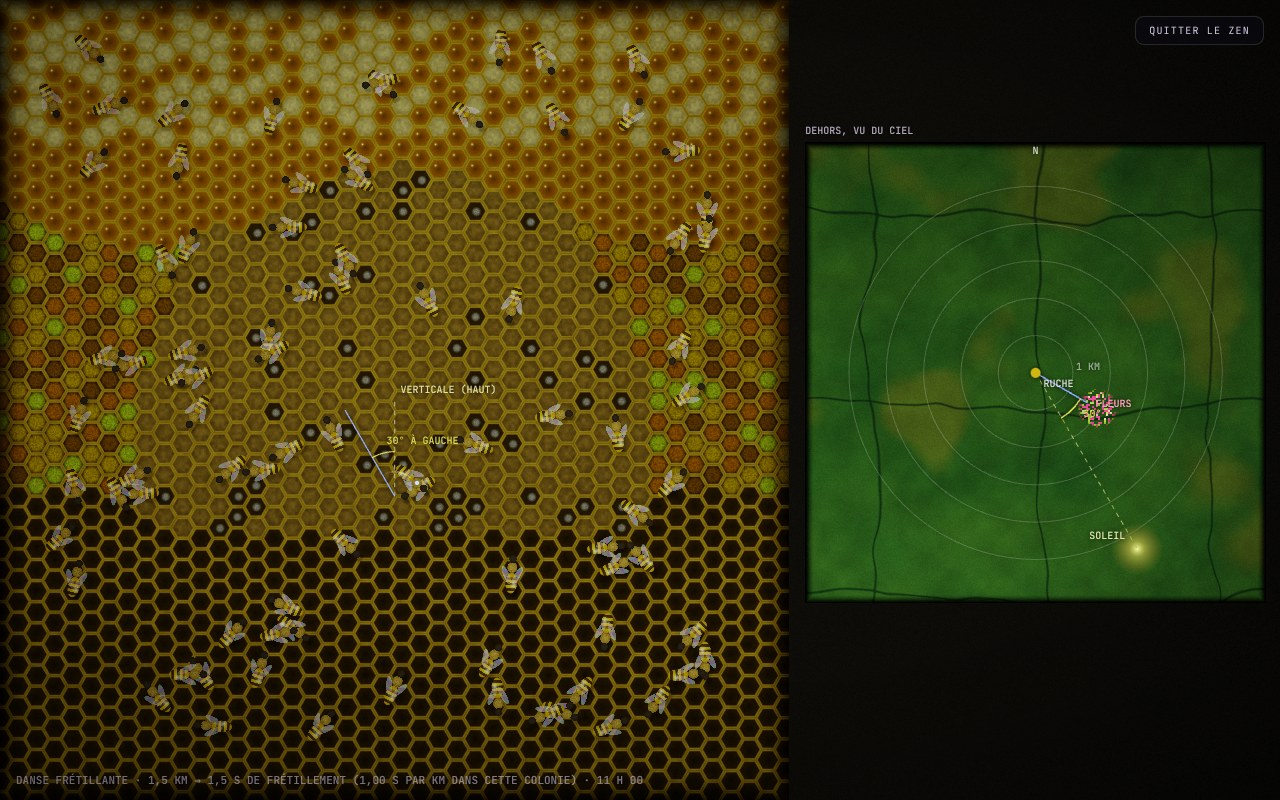
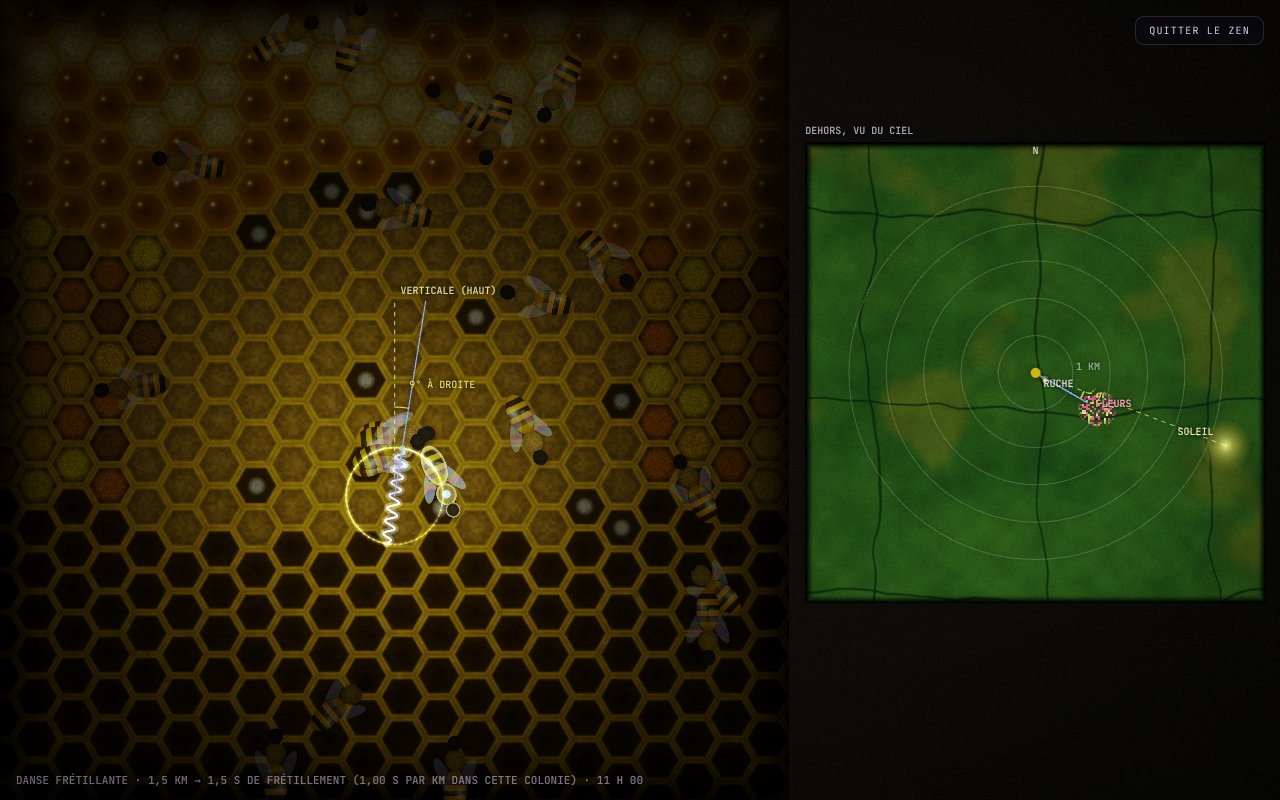
Abeilles : la danseuse en lumière, son huit et son frétillement ; vrai azimut du soleil
Demande du CEO : zoom ×2 sur la piste de danse, abeilles deux fois moins
nombreuses à l'écran, lumière qui suit la danseuse (liseré clair), les
autres estompées ; trace du huit en fil d'or et course frétillante en
zigzag dessiné. Relecture de Kurt : azimut réel du soleil (48° N, 21 juin,
midi solaire vers 13 h 50). Rayon et carte rendus une fois dans une
texture (coût par image divisé). Journal mis à jour (Lave, Abeilles,
Lucioles : Pteroptyx à sourcer, mesure au banc).

Claude-Session: https://claude.ai/code/session_01MS9d5JmMjbNw1P1jiRQA2y

diff --git a/app/js/machines/s-abeilles.js b/app/js/machines/s-abeilles.js
@@ -24,7 +24,7 @@
       { color: '#7fb2ff', name: 'Apis mellifera', role: 'la danseuse · marquée à la peinture', desc: 'Une butineuse de retour, marquée d’un point de peinture sur le thorax, comme le faisait Karl von Frisch pour suivre chaque abeille. Elle danse en huit : une course frétillante, puis un demi-tour, à gauche puis à droite.' },
       { color: '#ffd27a', name: 'Apis mellifera', role: 'les suiveuses, puis les recrues', desc: 'Elles suivent la danseuse au contact, antennes contre son corps : la ruche est sombre, elles sentent la danse plus qu’elles ne la voient. Elles sentent aussi l’odeur du nectar rapporté. Après quelques tours, elles partent.' },
       { color: '#e8a83c', name: 'Le rayon', role: 'cire · miel, pain d’abeille, couvain', desc: 'Des cellules hexagonales de cire : du miel en haut, du pollen (le « pain d’abeille ») autour, le couvain au centre. La danse a lieu près de l’entrée, sur la « piste de danse ».' },
-      { color: '#ffe080', name: 'Le soleil', role: 'la référence de la danse', desc: 'Dehors, l’angle se mesure par rapport au soleil ; dans la ruche, par rapport à la verticale. Le soleil tourne d’environ 15° par heure : la danse tourne avec lui.' },
+      { color: '#ffe080', name: 'Le soleil', role: 'la référence de la danse', desc: 'Dehors, l’angle se mesure par rapport au soleil ; dans la ruche, par rapport à la verticale. Le soleil tourne dans le ciel (lentement le matin et le soir, vite vers midi) : la danse tourne avec lui.' },
     ],
     about: [
       'Karl von Frisch a décodé la danse des abeilles à partir de 1945, en marquant les abeilles et en déplaçant des sources de sucre. Il a reçu le prix Nobel en 1973, avec Konrad Lorenz et Nikolaas Tinbergen.',
@@ -53,12 +53,16 @@
         return { comb: { x: v.x0, y: y0, w, h: h - mh - 24 }, map: { x: v.x0 + (w - mw) / 2, y: H - mh - 12, w: mw, h: mh } };
       }
       let G0 = geo();
-      const kS = clamp(Math.min(W, H) / 800, 0.7, 1.3), BEE = 38 * kS;        // longueur d'une abeille (px) : environ 2,2 cellules
+      // on regarde de près la piste de danse (zoom ×2) : des abeilles plus grandes, moins nombreuses à l'écran
+      const ZB = 2, kS = clamp(Math.min(W, H) / 800, 0.7, 1.3), BEE = 38 * kS * ZB;   // longueur d'une abeille (px) : environ 2,2 cellules
       const CELL = BEE / 3.6;                                                   // rayon d'une cellule hexagonale (px)
 
       /* ───────── le soleil et la source ───────── */
-      // azimut du soleil (rad, depuis le nord, sens horaire) : environ 15° par heure, plein sud vers 13 h (heure d'été)
-      const sunAz = () => ((180 + (cfg.heure - 13) * 15) * Math.PI) / 180;
+      // azimut du soleil (rad, depuis le nord, sens horaire), calculé pour 48° de latitude nord le 21 juin (déclinaison 23,44°),
+      // midi solaire vers 13 h 50 (heure d'été, en France). L'angle horaire tourne de 15° par heure ; l'azimut, lui, avance
+      // lentement le matin et le soir, et vite autour de midi.
+      const LAT = (48 * Math.PI) / 180, DEC = (23.44 * Math.PI) / 180;
+      const sunAz = () => { const Hh = ((cfg.heure - 13.83) * 15 * Math.PI) / 180; return Math.PI + Math.atan2(Math.sin(Hh), Math.cos(Hh) * Math.sin(LAT) - Math.tan(DEC) * Math.cos(LAT)); };
       const foodAz = () => (cfg.cap * Math.PI) / 180;
       const alpha = () => wrap(foodAz() - sunAz());                             // angle de la source par rapport au soleil (horaire)
       const ronde = () => cfg.dist < 0.09;
@@ -72,7 +76,7 @@
         B.push(b);
         return b;
       }
-      const N = Math.round((mobile ? 50 : 80) * clamp((G0.comb.w * G0.comb.h) / 600000, 0.5, 1.4));
+      const N = Math.round(((mobile ? 50 : 80) * clamp((G0.comb.w * G0.comb.h) / 600000, 0.5, 1.4)) / (ZB * ZB));
       for (let i = 0; i < N; i++) bee('ouvriere');
       const dancer = bee('danseuse');
       // la danse : un huit autour de son centre, sur la « piste de danse » près de l'entrée (en bas du rayon)
@@ -174,7 +178,7 @@
         const K = FG.GLKit(cw, ch), gl = K.gl, cab = FG.cabine(K);
         // le rayon : hexagones de cire ; miel en haut, pain d'abeille, couvain operculé ou ouvert, cellules vides sur la piste de danse ; et, à part, la carte du dehors
         const pFond = K.program(FG.HEAD + `
-uniform vec2 uRes; uniform vec4 uComb, uMap; uniform float uCell, uT, uSun, uFood, uDist;
+uniform vec2 uRes; uniform vec4 uComb, uMap; uniform float uCell, uT, uSun, uFood, uDist; uniform vec3 uSpot;
 out vec4 o;
 vec2 hexc(vec2 p, float R){
   vec2 s = vec2(1.7320508, 1.) * R * 2.;
@@ -217,6 +221,9 @@ void main(){
     col = mix(c, waxc, wall) * lum;
     col += vec3(.4, .25, .08) * .08 * smoothstep(0., -uCell * .1, d) * smoothstep(-uCell * .25, -uCell * .1, d);    // la cire translucide s'éclaire sur l'arête
     col *= smoothstep(0., uCell * 4., min(min(px.x - uComb.x, uComb.x + uComb.z - px.x), min(px.y - uComb.y, uComb.y + uComb.w - px.y)) + uCell);
+    // la piste de danse dans la lumière, le reste du rayon dans la pénombre de la ruche
+    float sp = exp(-dot(px - uSpot.xy, px - uSpot.xy) / (uSpot.z * uSpot.z));
+    col *= (.16 + .84 * sp) * mix(vec3(1.), vec3(1.15, 1.05, .9), sp) * 1.15;
   }
   // la carte du dehors : une prairie vue du ciel, le soleil, la source
   vec2 m = (px - uMap.xy) / uMap.zw;
@@ -246,10 +253,12 @@ void main(){
         const VS = `#version 300 es
 precision highp float;
 layout(location = 0) in vec4 aA; layout(location = 1) in vec4 aB; layout(location = 2) in vec2 aQ;
-uniform vec2 uRes; uniform float uOmb;
-out vec2 vQ; out vec4 vB;
+uniform vec2 uRes; uniform float uOmb; uniform vec3 uSpot; uniform vec2 uDan;
+out vec2 vQ; out vec4 vB; out float vS;
 void main(){
   float L = aA.z, a = aA.w;
+  float sp = exp(-dot(aA.xy - uDan, aA.xy - uDan) / (uSpot.z * uSpot.z * .36));
+  vS = aB.y > .5 ? 1.25 : .16 + .84 * sp;
   vec2 q = aQ * vec2(1., .62);
   vec2 d = vec2(cos(a), sin(a)), n = vec2(-d.y, d.x);
   vec2 pos = aA.xy + (d * q.x + n * q.y) * L * .62 + uOmb * vec2(2.5, 4.);
@@ -257,7 +266,7 @@ void main(){
   gl_Position = vec4(pos.x / uRes.x * 2. - 1., 1. - pos.y / uRes.y * 2., 0., 1.);
 }`;
         const pBee = K.program(FG.HEAD.replace('in vec2 vUv;', '') + `
-in vec2 vQ; in vec4 vB; uniform float uOmb, uT; out vec4 o;
+in vec2 vQ; in vec4 vB; in float vS; uniform float uOmb, uT; out vec4 o;
 float el(vec2 p, vec2 c, vec2 r){ return length((p - c) / r) - 1.; }
 void main(){
   vec2 p = vQ;                          // x : de la queue (-1) à la tête (+1)
@@ -267,12 +276,12 @@ void main(){
   vec2 pw = vec2(p.x - .18, abs(p.y) - .2); pw = mat2(.9, -.44, .44, .9) * pw;
   float dw = el(pw, vec2(-.12, .1), vec2(.42 + .1 * fly, .13));
   float body = min(dh, min(dt, da));
-  if (uOmb > .5){ float s = smoothstep(.35, -.4, body); o = vec4(0., 0., 0., s * .35); return; }
+  if (uOmb > .5){ float s = smoothstep(.35, -.4, body); o = vec4(0., 0., 0., s * .35 * min(vS, 1.)); return; }
   vec4 c = vec4(0.);
   // ailes : à peine visibles, irisées sur le bord ; floues quand elle vole
   float wa = smoothstep(.02, -.05, dw) * (.22 - .1 * fly);
   vec3 wc = vec3(.35, .38, .42) + .08 * vec3(sin(p.x * 20.), sin(p.x * 20. + 2.), sin(p.x * 20. + 4.));
-  if (body > 0.){ o = vec4(wc * wa, wa); return; }
+  if (body > 0.){ o = vec4(wc * wa * vS, wa); return; }
   vec3 col;
   if (da <= 0. && dt > 0. && dh > 0.){
     float band = smoothstep(.45, .55, fract((p.x + .76) * 4.2));
@@ -287,7 +296,8 @@ void main(){
   } else col = vec3(.02, .014, .01) * (.6 + .6 * sqrt(clamp(-dh, 0., 1.)));
   col = mix(col, wc, wa * .6);
   float edge = smoothstep(0., -.08, body);
-  o = vec4(col * edge, edge);
+  if (vB.y > .5) col += vec3(1., .82, .5) * .22 * smoothstep(-.3, -.02, body);   // la danseuse : un liseré de lumière
+  o = vec4(col * edge * vS, edge);
 }`, VS);
         const qBuf = gl.createBuffer(); gl.bindBuffer(gl.ARRAY_BUFFER, qBuf); gl.bufferData(gl.ARRAY_BUFFER, new Float32Array([-1, -1, 1, -1, -1, 1, 1, 1]), gl.STATIC_DRAW);
         const MAX = 512, data = new Float32Array(MAX * 8), ib = gl.createBuffer();
@@ -297,13 +307,23 @@ void main(){
         for (let l = 0; l < 2; l++) { gl.enableVertexAttribArray(l); gl.vertexAttribPointer(l, 4, gl.FLOAT, false, 32, l * 16); gl.vertexAttribDivisor(l, 1); }
         gl.bindBuffer(gl.ARRAY_BUFFER, qBuf); gl.enableVertexAttribArray(2); gl.vertexAttribPointer(2, 2, gl.FLOAT, false, 0, 0); gl.vertexAttribDivisor(2, 0);
         gl.bindVertexArray(null);
+        const bgT = K.target(cw, ch, 'f16', gl.NEAREST);
+        const pCopy = K.program(FG.HEAD + `
+uniform sampler2D uB; out vec4 o;
+void main(){ o = texture(uB, vUv); }`);
+        let bgKey = '';
         const Gx = { lost: false };
         K.canvas.addEventListener('webglcontextlost', (e) => { e.preventDefault(); Gx.lost = true; });
         Gx.draw = function () {
           const g = geo();
-          pFond.use().f('uRes', cw, ch).f('uComb', g.comb.x * cs, g.comb.y * cs, g.comb.w * cs, g.comb.h * cs).f('uMap', g.map.x * cs, g.map.y * cs, g.map.w * cs, g.map.h * cs)
-            .f('uCell', CELL * cs).f('uT', VT).f('uSun', sunAz()).f('uFood', foodAz()).f('uDist', cfg.dist);
-          K.run(pFond, cab.scene);
+          const R = BEE * 2.8 * cs, key = [g.comb.x, g.comb.y, g.comb.w, g.comb.h, g.map.x, g.map.y, g.map.w, sunAz().toFixed(2), cfg.cap, cfg.dist, Math.round(D.cx), Math.round(D.cy)].join(',');
+          if (key !== bgKey) {
+            bgKey = key;
+            pFond.use().f('uRes', cw, ch).f('uComb', g.comb.x * cs, g.comb.y * cs, g.comb.w * cs, g.comb.h * cs).f('uMap', g.map.x * cs, g.map.y * cs, g.map.w * cs, g.map.h * cs)
+              .f('uCell', CELL * cs).f('uT', VT).f('uSun', sunAz()).f('uFood', foodAz()).f('uDist', cfg.dist).f('uSpot', D.cx * cs, D.cy * cs, R);
+            K.run(pFond, bgT);
+          }
+          pCopy.use().t('uB', bgT); K.run(pCopy, cab.scene);
           let n = 0;
           for (const b of B) {
             if (b.out || n >= MAX) continue;
@@ -315,8 +335,8 @@ void main(){
           gl.bindFramebuffer(gl.FRAMEBUFFER, cab.scene.fb); gl.viewport(0, 0, cab.scene.w, cab.scene.h);
           gl.enable(gl.BLEND); gl.blendFunc(gl.ONE, gl.ONE_MINUS_SRC_ALPHA);
           gl.bindVertexArray(vao);
-          pBee.use().f('uRes', cw, ch).f('uOmb', 1).f('uT', VT); gl.drawArraysInstanced(gl.TRIANGLE_STRIP, 0, 4, n);   // ombres portées
-          pBee.use().f('uRes', cw, ch).f('uOmb', 0).f('uT', VT); gl.drawArraysInstanced(gl.TRIANGLE_STRIP, 0, 4, n);
+          pBee.use().f('uRes', cw, ch).f('uOmb', 1).f('uT', VT).f('uSpot', D.cx * cs, D.cy * cs, R).f('uDan', dancer.x * cs, dancer.y * cs); gl.drawArraysInstanced(gl.TRIANGLE_STRIP, 0, 4, n);   // ombres portées
+          pBee.use().f('uRes', cw, ch).f('uOmb', 0).f('uT', VT).f('uSpot', D.cx * cs, D.cy * cs, R).f('uDan', dancer.x * cs, dancer.y * cs); gl.drawArraysInstanced(gl.TRIANGLE_STRIP, 0, 4, n);
           gl.bindVertexArray(null); gl.disable(gl.BLEND);
           cab.finish({ expo: 1.6, bloom: 0.3, thr: 1.0, knee: 0.5, radius: 0.7, vig: 0.5, grain: 0.03, grainBlack: 0.3, sat: 1.0 });
           ctx.save(); ctx.globalCompositeOperation = 'copy'; ctx.drawImage(K.canvas, 0, 0, W, H); ctx.restore();
@@ -355,12 +375,30 @@ void main(){
         ctx.save();
         // la trace de la danse : la course frétillante en trait vif, le retour en pointillé
         if (cfg.trace && trace.length > 2) {
-          ctx.lineWidth = 2; ctx.lineCap = 'round';
-          for (let i = 1; i < trace.length; i++) {
-            const [x0, y0, w0] = trace[i - 1], [x1, y1] = trace[i], a = (i / trace.length) * 0.75;
-            ctx.strokeStyle = w0 ? `rgba(140,190,255,${a.toFixed(3)})` : `rgba(255,230,180,${(a * 0.45).toFixed(3)})`;
-            ctx.beginPath(); ctx.moveTo(x0, y0); ctx.lineTo(x1, y1); ctx.stroke();
+          ctx.lineCap = 'round'; ctx.lineJoin = 'round'; ctx.globalCompositeOperation = 'lighter';
+          const n = trace.length;
+          // les retours (demi-cercles) : un fil d'or pâle, plus vif quand il est récent
+          for (let i = 1; i < n; i++) {
+            const [x0, y0, w0] = trace[i - 1], [x1, y1, w1] = trace[i], a = i / n;
+            if (w0 && w1) continue;
+            for (const [lw, al] of [[6, 0.07], [2, 0.42]]) { ctx.lineWidth = lw; ctx.strokeStyle = `rgba(255,214,140,${(al * a).toFixed(3)})`; ctx.beginPath(); ctx.moveTo(x0, y0); ctx.lineTo(x1, y1); ctx.stroke(); }
           }
+          // les courses frétillantes : du premier au dernier point de chaque course, un zigzag dessiné finement (le frétillement)
+          for (let i = 0; i < n; i++) {
+            if (!trace[i][2]) continue;
+            let j = i; while (j + 1 < n && trace[j + 1][2]) j++;
+            const [xa, ya] = trace[i], [xb, yb] = trace[j], len = Math.hypot(xb - xa, yb - ya), a = (j + 1) / n;
+            if (len > 4) {
+              const ux = (xb - xa) / len, uy = (yb - ya) / len, lam = BEE * 0.17, amp = BEE * 0.075;
+              for (const [lw, al] of [[7, 0.12], [2.2, 0.9]]) {
+                ctx.lineWidth = lw; ctx.strokeStyle = `rgba(150,200,255,${(al * a).toFixed(3)})`; ctx.beginPath();
+                for (let s = 0; s <= len; s += 1.5) { const o = Math.sin((s / lam) * TAU) * amp * Math.min(1, s / 6, (len - s) / 6); ctx.lineTo(xa + ux * s - uy * o, ya + uy * s + ux * o); }
+                ctx.stroke();
+              }
+            }
+            i = j;
+          }
+          ctx.globalCompositeOperation = 'source-over';
         }
         ctx.font = '500 10px "JetBrains Mono", monospace'; ctx.shadowColor = 'rgba(0,0,0,.95)'; ctx.shadowBlur = 5; ctx.textAlign = 'left';
         const al = alpha(), up = -Math.PI / 2;
@@ -430,6 +468,7 @@ void main(){
       }
       if (!keep.cfg.init) { keep.cfg.init = true; setScene(keep.scene); }
 
+      if (window.FASC_DEBUG) window.FASC_DEBUG.abeilles = { cfg, run(n, h) { for (let i = 0; i < n; i++) { VT += h; stepDance(h); stepBees(h); } } };
       return {
         livePaused: true,
         frame(t, dt) {

diff --git a/docs/rendu/RENDU-A.md b/docs/rendu/RENDU-A.md
@@ -14,16 +14,17 @@ Branche `rendu-a`, nuit du 12 au 13/11/2026. La science des machines ne change p
 - **Herbes du premier plan** : dessinées sur le GPU (une bande courbe par lame, antialiasée), elles suivent toujours le vent et le souffle.
 - **Coût** : bruits fixes (Voie lactée, sol, bord des feuilles) calculés une seule fois ; résolution de rendu ×1,25 sur mobile, ×1,5 ailleurs. En rendu logiciel (SwiftShader), environ 11 images/s contre 17 pour l'ancien rendu 2D ; sur une vraie carte graphique, le rendu est très en deçà du budget, et le régulateur de la coquille baisse la résolution si besoin.
 - **Correctif au passage** : la scène et les réglages sont gardés d'une construction à l'autre (objet `keep`). Avant, passer en mode zen ou tourner la tablette ramenait toujours à « Nuit d'été », contre la décision « ne jamais réinitialiser sans demande ».
-- **Couleurs vraies (relecture de Kurt, 13/11)** : chaque espèce émet une bande d'environ 50 nm autour de son pic, convertie par les fonctions CIE 1931 (`FKR.couleur.bande`, repli local identique). Pics retenus, à confirmer : *Photinus* 562-563 nm (Lall et al., 1980), *Photuris* et *Lampyris* 552 nm, *Pteroptyx* 565 nm. Toutes sont jaune-vert : les espèces se reconnaissent à leur rythme. L'interrupteur « Couleurs pour reconnaître les espèces » (éteint par défaut) rend les anciennes fausses couleurs, annoncées comme telles. La légende du panneau montre les vraies.
+- **Couleurs vraies (relecture de Kurt, 13/11)** : chaque espèce émet une bande d'environ 50 nm autour de son pic, convertie par les fonctions CIE 1931 (`FKR.couleur.bande`, repli local identique). Pics retenus, validés par Kurt (13/11) : *Photinus* 562-563 nm (Lall et al., 1980), *Photuris* et *Lampyris* 552 nm ; *Pteroptyx* 565 nm est plausible mais **reste à sourcer**. Toutes sont jaune-vert : les espèces se reconnaissent à leur rythme. L'interrupteur « Couleurs pour reconnaître les espèces » (éteint par défaut) rend les anciennes fausses couleurs, annoncées comme telles. La légende du panneau montre les vraies.
 - **Mode doux (`env.doux`, photosensibilité)** : l'éclairage d'ensemble (champ qui éclaire prairie et couronne) baisse de 82 %, la lueur autour des lucioles de 60 %, le halo de moitié ; les points restent nets. Même chose dans le repli 2D.
 - **Recette qualité** : le trait noir droit sous la haie est retiré ; les étiquettes passent sous la bande réservée du Labo (`env.view.y0`).
+- **Mesure au banc de B** (`tools/avant-apres.mjs`, Labo, 1280 × 800, rendu logiciel) : 8,5 / 10,5 / 9,5 i/s à 3, 15 et 30 s, **sans déclin** (avant : 50,5 / 14,5 / 17, avec déclin).
 
 ## La Lampe à lave (`s-lave.js`)
 
 Toutes les scènes passent par la cabine (`FKGL.cabine`, dans FKR). L'ancien rendu reste pour le mode sans décor (encre sur crème) et si la cabine manque.
 
 - **La lampe** : pièce sombre éclairée par la lampe ; verre cylindrique (le liquide fait loupe : centre grossi, bords serrés), reflets de Fresnel et d'une fenêtre, lumière piégée dans la paroi. Le liquide diffuse la lumière de l'ampoule (intense en bas) ; l'œil s'adapte à sa teinte chaude (balance des blancs partielle). La cire est translucide : les parties minces s'illuminent, le dessous des gouttes s'allume face à l'ampoule, un reflet de fenêtre les arrondit. Socle et chapeau en aluminium brossé, fentes d'aération lumineuses, table laquée où la lampe se reflète. Le verre et le socle sont un peu plus bas qu'avant (`lampBox`) pour laisser voir la table.
-- **Bénard** : palette « inferno » (perceptuellement régulière) avec relief, plaque de cuivre qui rougeoie selon l'écart de température, plaque froide ; colorant en vert fluorescent sur liquide sombre.
+- **Bénard** : palette « inferno » (perceptuellement régulière) avec relief ; colorant en vert fluorescent sur liquide sombre. Relecture de Kurt : la plaque de cuivre ne rougeoie plus (à quelques dizaines de degrés, un métal ne luit pas ; il faut environ 500 °C), elle est couleur cuivre, et la plaque froide est grise ; l'écran dit « fausses couleurs : la température (noir = plus froid, jaune = plus chaud) ».
 - **Le Soleil** : granules bombés sur une grille de Voronoï tordue, couloirs, points brillants, granules qui « explosent » ; facules près du bord, chromosphère. Comme les images d'observatoire, une luminance colorisée par une palette or (l'image défait d'avance la courbe ACES de la cabine). Le texte le dit : le Soleil est blanc, l'or est une convention.
 
 ### Volcans et intérieur de la Terre (demande de Yoann, cadrage de Kurt, brief 93ac705)
@@ -33,6 +34,9 @@ Trois nouvelles scènes, rangées sous les trois premières. Couleurs des roches
 - **La Terre en coupe**, à l'échelle : graine de fer solide (≈ 5 400 °C), noyau externe de fer liquide (4 000 à 5 000 °C, tourbillons ; le texte dit qu'il brasse un million de fois plus vite que le manteau), manteau de roche **solide** (1 000 à 3 500 °C, couche limite chaude au contact du noyau) en convection lente : 7 cellules qui dérivent et un panache de point chaud qui ondule. Lithosphère de 100 km, croûte de 7 km (océans) à 35 km (continents), dorsales où le manteau fond par décompression. Une **loupe ×20** montre la croûte, fine comme une peau de pomme, et l'atmosphère d'une centaine de kilomètres. Horloge : 1 s ≈ 4 Ma par défaut (réglable de 0,5 à 20).
 - **Le point chaud** : la plaque Pacifique avance d'environ 9 cm par an au-dessus d'un panache fixe ; une île naît toutes les 1,1 Ma, grandit, s'éloigne, s'enfonce et s'use ; âges affichés sous chaque île ; bombement du fond marin autour du point chaud ; fusion partielle en haut du panache et fissures jusqu'au volcan actif (chambre magmatique, lave, vapeur). **Relief exagéré ×25 au-dessus du fond marin, à l'échelle en dessous** : c'est écrit à l'écran. Horloge : 1 s ≈ 600 000 ans par défaut.
 - **Sous le volcan**, à l'échelle (barre de 5 km) : chambre magmatique à 5-7 km (bouillie cristalline), cheminée. Basalte fluide (vers 1 150 °C) : fontaines et deux rivières de lave dont la couleur suit la température, avec une croûte qui fige. Magma visqueux et gazeux (vers 900 °C) : bulles qui grossissent dans la cheminée, colonne plinienne en volutes éclairées par en dessous, nuées ardentes de temps en temps, éclairs rares dans le panache (au plus un toutes les 2 s ; atténués avec `env.doux`).
+- **Sous le volcan, refait (demande du CEO, 13/11 ; « le volcan effusif : il dirait c'est moche »)** : chambre en lentille irrégulière où l'on voit la convection (panache chaud au centre au-dessus de la recharge, magma plus froid et plus cristallin contre les parois) et des bulles de gaz qui montent (grossies, c'est écrit) ; cheminée sinueuse dont les bulles grossissent en montant ; un dyke actif (une lame de magma qui fend la roche depuis le toit de la chambre, sans percer) et un vieux dyke figé qui recoupe les couches ; couches naturelles (laves, scories et cendres parallèles aux flancs dans l'édifice ; grès, schistes, calcaires plissés et décalés par une faille sous la plaine ; socle de granite) ; lac de lave dans le cratère ; fontaine de lave d'environ 1 km qui pulse lentement, comme à l'Etna, avec des gouttes en arcs qui rougissent en vol ; coulées qui refroidissent en descendant (jaune vers 1 150 °C, rouge vers 900 °C, puis croûte noire fendue de lueurs), **épaisseur grossie (×4 environ), écrit à l'écran** ; panache de gaz et de vapeur poussé par le vent, éclairé par-dessous ; lueur dans l'air et nuages élevés rougis au-dessus du volcan. En mode visqueux : dôme de lave, fragmentation du magma en haut de la cheminée, nuée ardente au ras du flanc. Le sol est un peu plus haut (55 % de la hauteur) : la chambre ne touche plus le bandeau.
+- **Conventions de couleurs à l'écran (relecture de Kurt)** : coupe de la Terre, « couleurs : la lueur qu'aurait la matière à sa température · personne ne peut voir l'intérieur de la Terre » ; point chaud et volcan, « … la lueur qu'aurait la roche à sa température · personne ne peut voir sous la surface ». Le bandeau passe à la ligne aux « · » sur écran étroit (il était tronqué en 390 px).
+- **Éclairs du panache** : au plus un toutes les 2,2 s, locaux (jamais plein écran), à 35 % avec `env.doux` : bien en dessous de 3 par seconde.
 - **L'analogie** : la note de la coupe le dit. Comme la cire, ce qui est chaud monte ; mais la cire est liquide et fait un tour en minutes, le manteau est solide et fait un tour en 100 millions d'années environ.
 - **Outil OBSERVER** : il nomme la couche ou l'objet touché (graine, noyau externe, manteau, lithosphère ; plaque, panache, volcan actif ; chambre, cheminée, panache de cendres…).
 - **Chemins pour les fiches du Labo** : `scenes/la terre en coupe`, `scenes/le point chaud`, `scenes/sous le volcan` ; `la terre en coupe/vitesse du temps` (0,5 à 20 Ma/s), `la terre en coupe/loupe sur la croute` ; `le point chaud/vitesse du temps` (0,1 à 2 Ma/s) ; `sous le volcan/magma` (`fluide` ou `visqueux`).
@@ -44,11 +48,13 @@ Cadrage de Kurt (REFONTE-PEDAGOGIQUE.md § 2) : von Frisch, prix Nobel 1973 ; su
 - **Dans la ruche**, sur le rayon vertical : cellules hexagonales de cire (miel operculé ou non en haut, pain d'abeille en couronne, couvain au centre, cellules vides de la piste de danse près de l'entrée), lumière douce, vignettage sombre.
 - **La danseuse**, marquée d'un point de peinture bleue sur le thorax comme dans les expériences de von Frisch, danse en huit. Course frétillante : angle avec la verticale = angle des fleurs par rapport au soleil (sens horaire) ; abdomen qui frétille vers 13 battements par seconde ; durée = distance × secondes par km (1 s par défaut, réglable de 0,6 à 1,4 s : « la valeur varie selon les colonies », écrit dans le panneau). Demi-tours alternés à gauche et à droite. Sous 90 m : danse en rond, sans direction.
 - **Les suiveuses** restent au contact derrière elle, puis, après 3 à 6 tours, partent vers l'entrée.
-- **Dehors, vu du ciel** : la ruche, des cercles de 1 km, le soleil (azimut : environ 15° par heure, plein sud vers 13 h, heure d'été), le champ de fleurs, et les recrues qui volent dans la direction indiquée avec une erreur de quelques degrés et 20 % sur la distance (en rond : n'importe quelle direction, près de la ruche). L'angle entre le soleil et les fleurs est tracé dehors et, le même, entre la verticale et la course dans la ruche.
+- **Dehors, vu du ciel** : la ruche, des cercles de 1 km, le soleil (vrai azimut, relecture de Kurt : 48° N, 21 juin, déclinaison 23,44°, midi solaire vers 13 h 50 en heure d'été française ; il avance lentement le matin et le soir, vite vers midi : 54° à 6 h, 97° à 10 h, 180° à 13 h 50, 288° à 20 h), le champ de fleurs, et les recrues qui volent dans la direction indiquée avec une erreur de quelques degrés et 20 % sur la distance (en rond : n'importe quelle direction, près de la ruche). L'angle entre le soleil et les fleurs est tracé dehors et, le même, entre la verticale et la course dans la ruche.
 - **Toute une journée** : le soleil tourne, la danse tourne avec lui (une heure toutes les 8 s).
 - **Rendu** : rayon, carte et abeilles en WebGL2 (abeilles dessinées en GLSL : tête, thorax velu, abdomen rayé avec un reflet sur la chitine, ailes irisées, ombres portées), développé par la cabine ; repli 2D sans WebGL2.
 - **Chemins pour la fiche du Labo** : `scenes/la danse fretillante`, `scenes/la danse en rond`, `scenes/toute une journee` ; `les fleurs/distance` (0,03 à 5 km), `les fleurs/direction depuis la ruche` (0 à 359°, nord = 0), `les fleurs/heure` (6 à 20), `les fleurs/le temps passe` ; `la danse/secondes de fretillement par kilometre` (0,6 à 1,4), `la danse/montrer la trace`, `la danse/montrer les angles`. Outils : `observer`, `fleurs` (toucher la carte place la source).
-- **Inscrite** dans `app/index.html`, `jeunesse/index.html` et `app/sw.js` ; pas encore dans les mondes du Labo (`jeunesse/js/mondes.js`), que Kurt regroupe.
+- **Inscrite** dans `app/index.html`, `jeunesse/index.html` et `app/sw.js` ; Kurt l'a regroupée dans « Comment les insectes se parlent-ils ? » (jeunesse 6e94d37).
+- **La danseuse en lumière (demande du CEO, 13/11 ; « on ne sait pas qui regarder »)** : on regarde de près la piste de danse (zoom ×2 : abeilles de 76 px sur une tablette, deux fois moins nombreuses à l'écran) ; la piste est dans la lumière, le reste du rayon dans la pénombre de la ruche ; la lumière suit la danseuse, qui porte un liseré clair ; les autres sont estompées selon leur distance. Sa trace dessine le huit : demi-tours en fil d'or, course frétillante en zigzag bleu-blanc (le frétillement est dessiné, pas échantillonné : il reste net à faible cadence).
+- **Coût** : le rayon et la carte sont rendus une fois dans une texture, et redessinés seulement quand la carte change (soleil, fleurs) ; chaque image ne recopie que cette texture sous les abeilles. Crochet `FASC_DEBUG.abeilles.run(n, h)` pour les captures.
 
 ## Le Cristal (`s-cristal.js`) : le flocon
 
